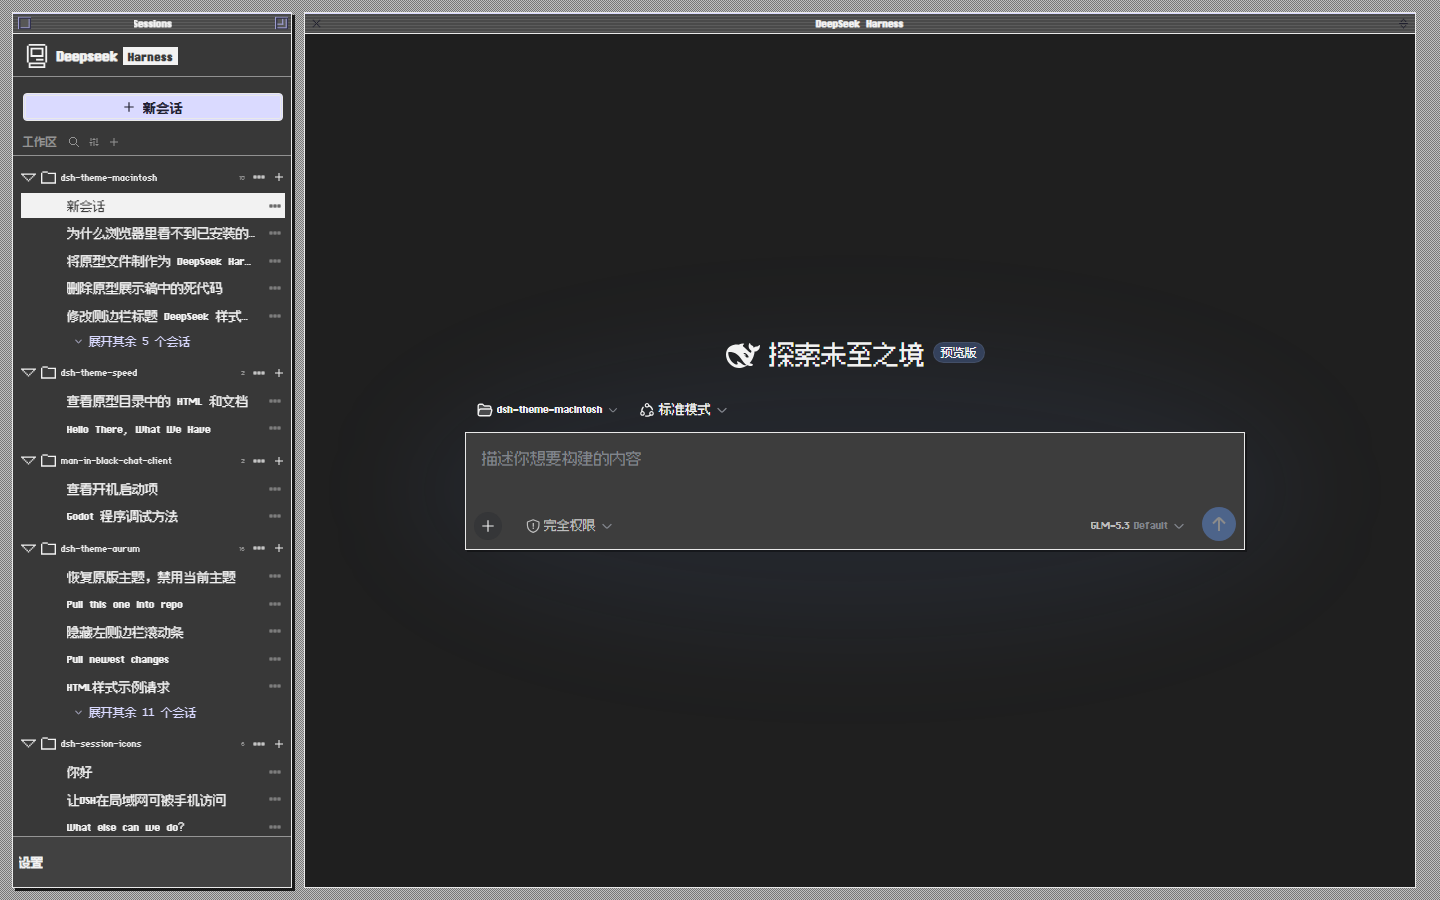
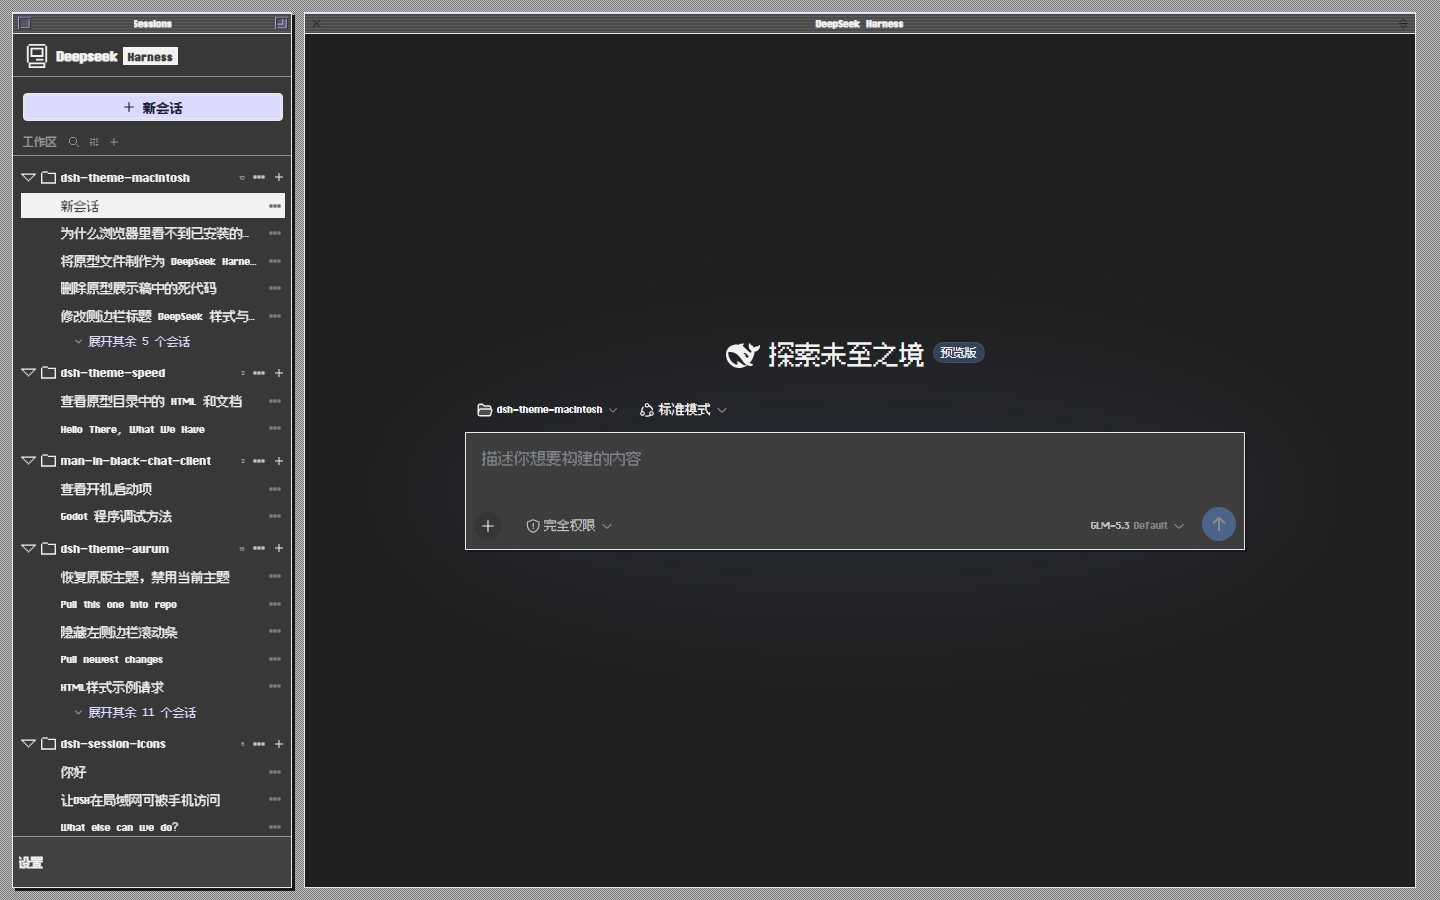
fix(mcx-finder): 工作区名字体改 ChiKareGo 优先（用户裁定覆盖原型 FindersKeepers 链，用 --font-sb：ChiKareGo Latin→Fusion→Noto）；会话标题与工作区名左对齐（s-slot margin-left 20→14px，实测两者左缘同为 61px）；src 镜像同步

Changed region(s): [[0.0312, 0.4044, 0.1875, 0.7778], [0.0312, 0.1867, 0.1875, 0.3733], [0.0312, 0.8089, 0.1562, 0.9333]]

diff --git a/client.js b/client.js
@@ -1158,7 +1158,7 @@ const McFinder = {
 .mc-gh-btn:active{color:var(--mc-fg)}
 .mc-sb-find .mc-gh-btn svg{width:12px;height:12px}
 .mc-g-name{flex:1;min-width:0;overflow:hidden;text-overflow:ellipsis;white-space:nowrap;
-  font:400 15px/1.25 'FindersKeepers','Fusion Pixel 12px monospaced zh','Noto Sans SC',monospace;letter-spacing:.02em;color:var(--mc-fg)}
+  font:400 15px/1.25 var(--font-sb);letter-spacing:.02em;color:var(--mc-fg)}
 .mc-g-count{font:500 10px/1.3 var(--font-mono);color:var(--mc-faint)}
 .mc-group-body{overflow:hidden;height:auto}
 .mc-group-body:not(.open){height:0}
@@ -1168,7 +1168,7 @@ const McFinder = {
 .mc-s-tt{flex:1;min-width:0;overflow:hidden;text-overflow:ellipsis;white-space:nowrap;
   font:400 13px/1.5 var(--font-sb);color:var(--mc-fg)}
 .mc-s-slot{display:flex;align-items:center;justify-content:center;gap:4px;flex:none;order:-1;
-  width:15px;height:15px;margin-left:20px}
+  width:15px;height:15px;margin-left:14px}
 .mc-s-menu{display:grid;place-items:center;width:18px;height:18px;flex:none;
   background:none;border:none;cursor:pointer;color:var(--mc-faint);border-radius:var(--mc-r-tag)}
 .mc-s-menu:active{color:var(--mc-fg)}

diff --git a/src/finder.js b/src/finder.js
@@ -188,7 +188,7 @@ const McFinder = {
 .mc-gh-btn:active{color:var(--mc-fg)}
 .mc-sb-find .mc-gh-btn svg{width:12px;height:12px}
 .mc-g-name{flex:1;min-width:0;overflow:hidden;text-overflow:ellipsis;white-space:nowrap;
-  font:400 15px/1.25 'FindersKeepers','Fusion Pixel 12px monospaced zh','Noto Sans SC',monospace;letter-spacing:.02em;color:var(--mc-fg)}
+  font:400 15px/1.25 var(--font-sb);letter-spacing:.02em;color:var(--mc-fg)}
 .mc-g-count{font:500 10px/1.3 var(--font-mono);color:var(--mc-faint)}
 .mc-group-body{overflow:hidden;height:auto}
 .mc-group-body:not(.open){height:0}
@@ -198,7 +198,7 @@ const McFinder = {
 .mc-s-tt{flex:1;min-width:0;overflow:hidden;text-overflow:ellipsis;white-space:nowrap;
   font:400 13px/1.5 var(--font-sb);color:var(--mc-fg)}
 .mc-s-slot{display:flex;align-items:center;justify-content:center;gap:4px;flex:none;order:-1;
-  width:15px;height:15px;margin-left:20px}
+  width:15px;height:15px;margin-left:14px}
 .mc-s-menu{display:grid;place-items:center;width:18px;height:18px;flex:none;
   background:none;border:none;cursor:pointer;color:var(--mc-faint);border-radius:var(--mc-r-tag)}
 .mc-s-menu:active{color:var(--mc-fg)}
